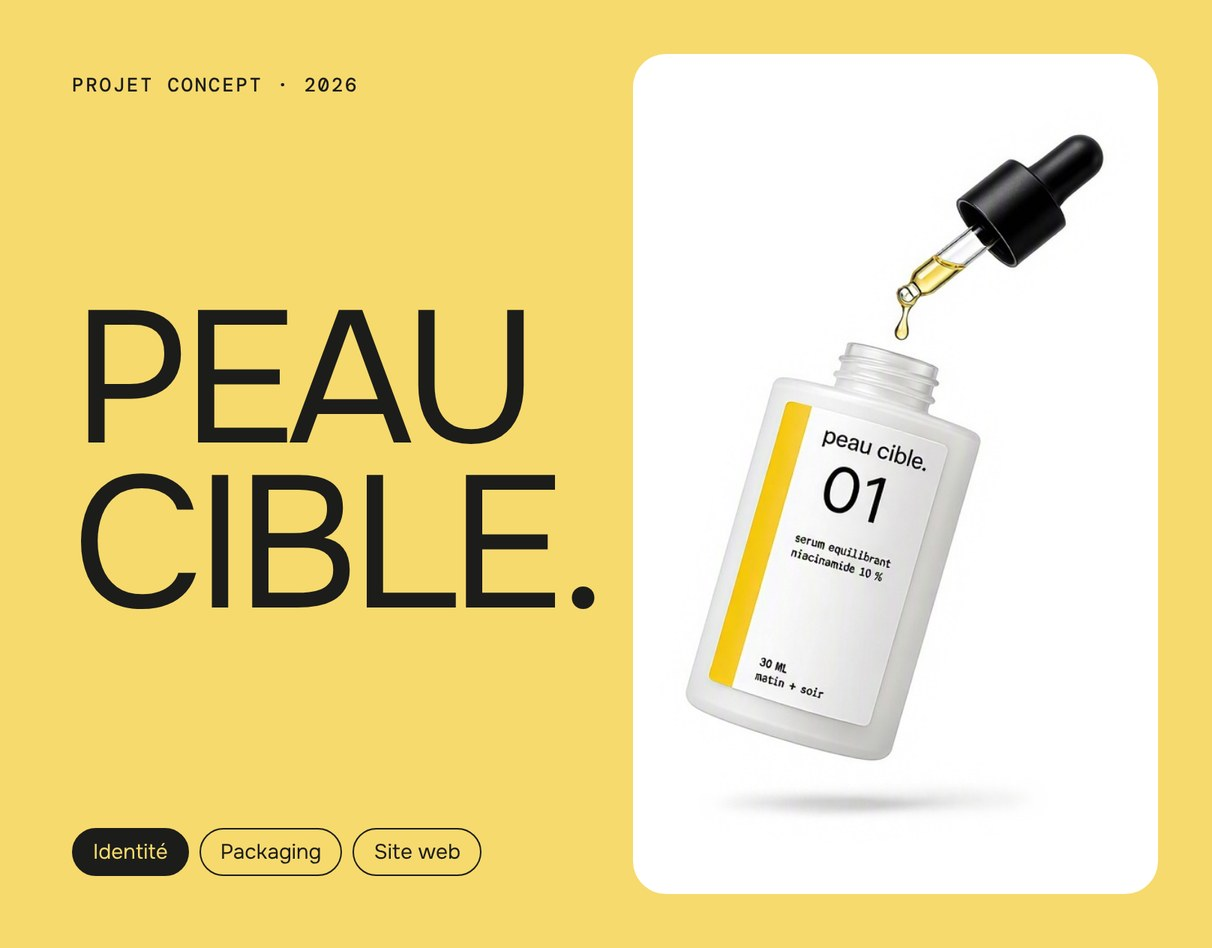
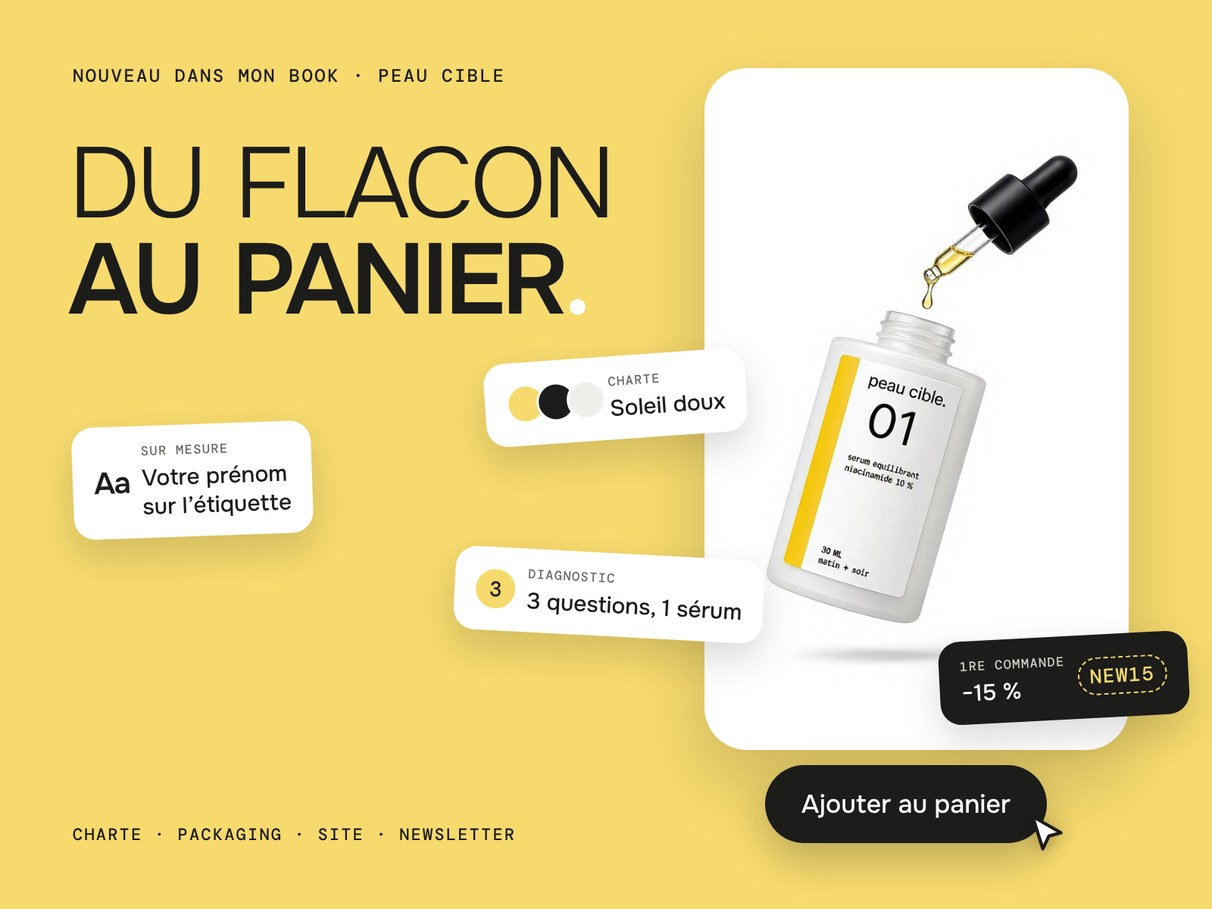
Peau Cible : nouvelle miniature « Du flacon au panier » dans le book
Claude-Session: https://claude.ai/code/session_01FzwBmncj8JGb2dSua4z4Jr

diff --git a/projects/peau-cible.html b/projects/peau-cible.html
@@ -17,7 +17,7 @@
 <meta property="og:image" content="https://estellelavenac.github.io/Estelle-Lavenac/book-assets/peau-cible-01-cover.jpg">
 <meta property="og:image:width" content="1212">
 <meta property="og:image:height" content="948">
-<meta property="og:image:alt" content="Peau Cible — flacon de sérum N° 01 sur fond jaune Soleil doux">
+<meta property="og:image:alt" content="Peau Cible — Du flacon au panier : flacon N° 01 et éléments du site sur fond jaune">
 <meta name="twitter:card" content="summary_large_image">
 <meta name="twitter:title" content="Peau Cible — Estelle Lavenac">
 <meta name="twitter:description" content="Peau Cible — projet conceptuel : identité visuelle, packaging, site e-commerce et newsletter pour une marque de sérums, par Estelle Lavenac.">

diff --git a/book.html b/book.html
@@ -209,7 +209,7 @@
   <div class="book-grid reveal-stagger">
 
     <a class="project-card reveal" style="--i:0" href="projects/peau-cible.html">
-      <div class="project-thumb-wrap"><img class="project-thumb" src="book-assets/peau-cible-01-cover.jpg" alt="Peau Cible — marque de sérums, flacon N° 01" loading="lazy"></div>
+      <div class="project-thumb-wrap"><img class="project-thumb" src="book-assets/peau-cible-01-cover.jpg" alt="Peau Cible — Du flacon au panier : charte, packaging, site et newsletter" loading="lazy"></div>
       <div class="project-body">
         <span class="project-cat">Identité · Packaging · Web</span>
         <div class="project-title">Peau Cible</div>
